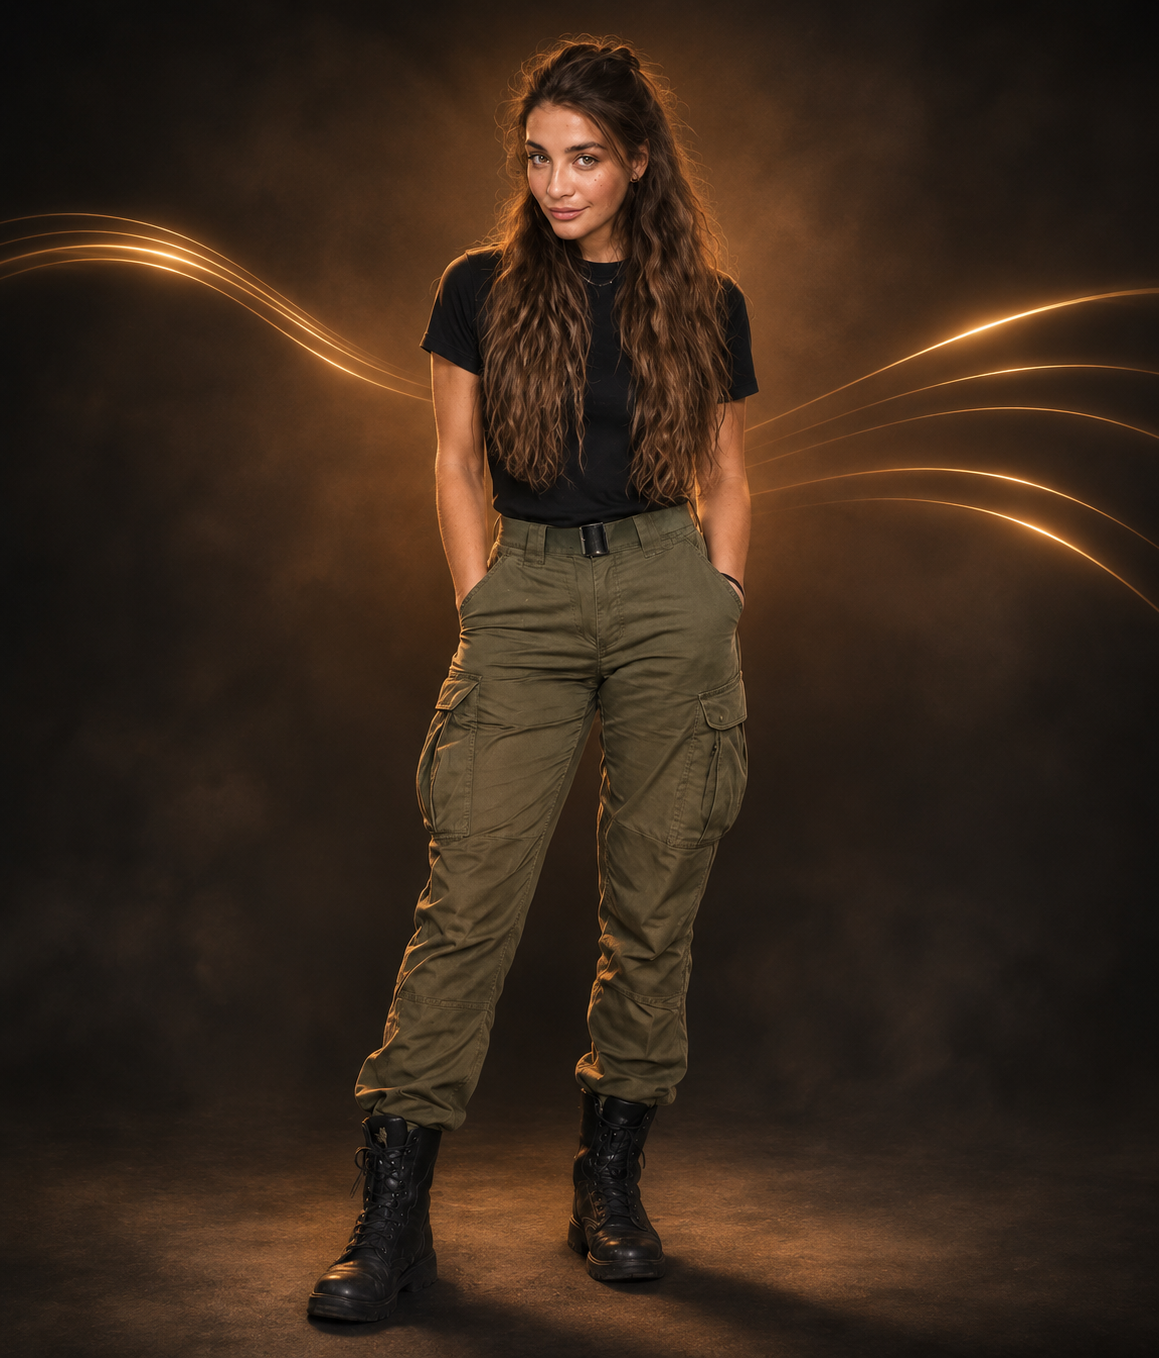
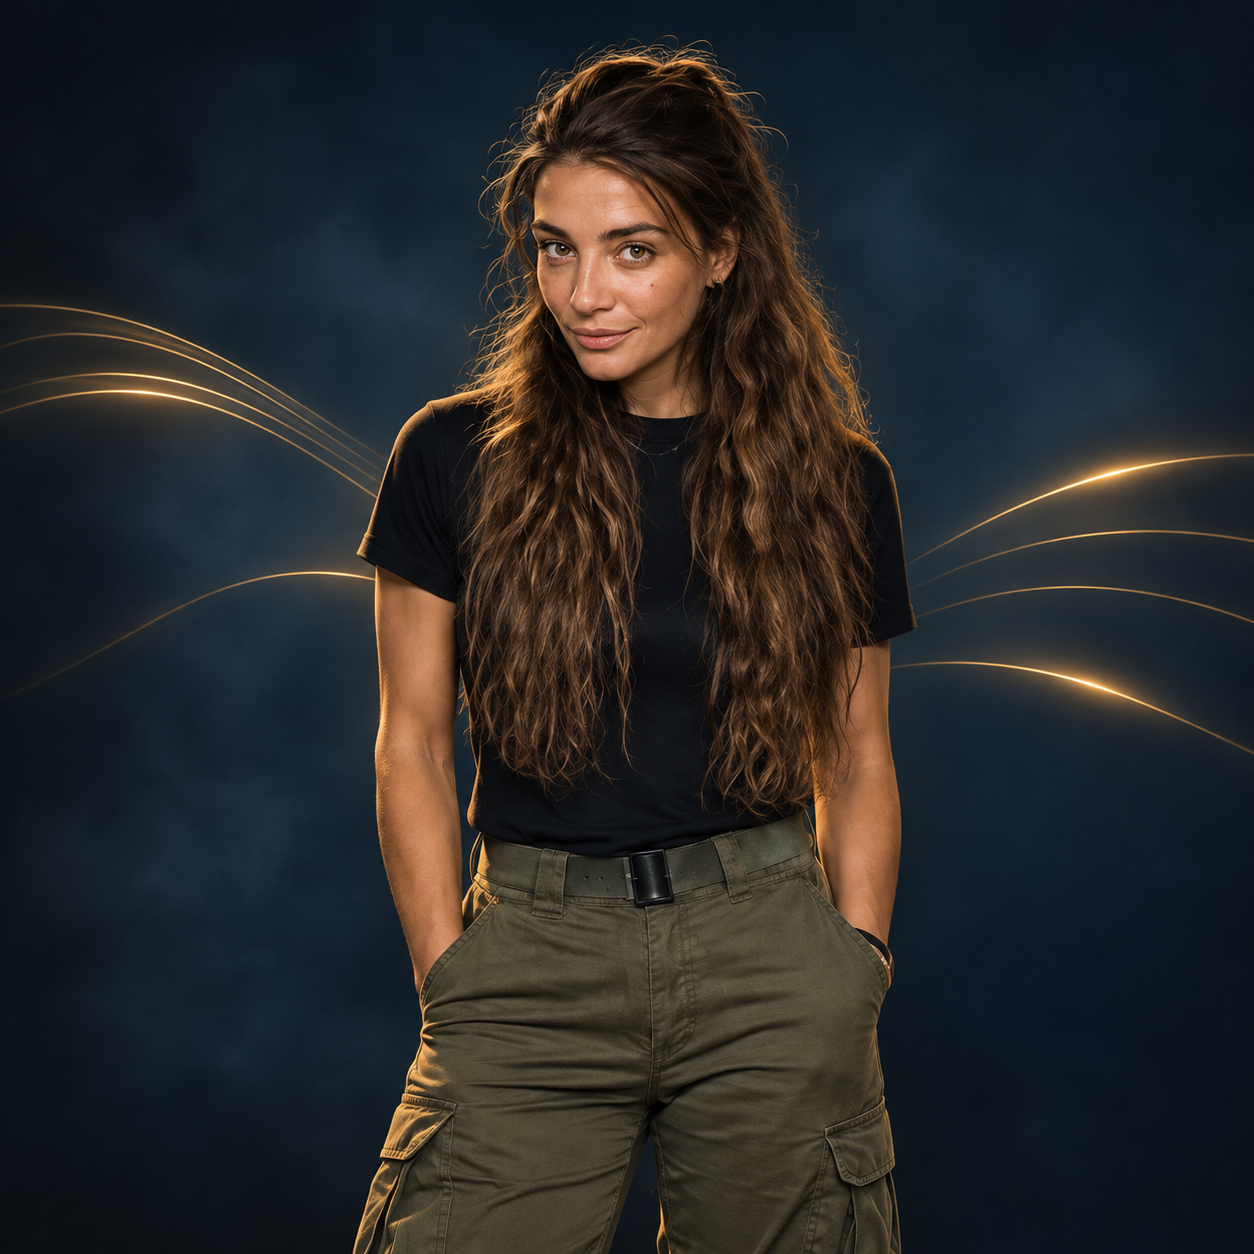
Add files via upload

diff --git a/css/style.css b/css/style.css
@@ -1575,3 +1575,11 @@ a.dabro-support-glow {
 .media-team-person strong{font-size:18px;color:#fff7e7}
 .media-team-person span{font-size:14px;color:#e3d9cb;line-height:1.5}
 @media(max-width:600px){.media-section{padding:18px 16px 48px}.media-team-card{gap:16px;padding:15px;align-items:flex-start}.media-team-photo{width:110px;min-width:110px}.media-team-info h3{font-size:20px;margin-bottom:12px}.media-team-person strong{font-size:15px}.media-team-person span{font-size:12px}.media-team-kicker{font-size:10px}}
+
+/* Media team: round portrait and broadcaster logo */
+.media-team-photo{width:190px;min-width:190px;aspect-ratio:1/1;border-radius:50%;border:2px solid rgba(231,190,108,.6);box-shadow:0 0 0 5px rgba(231,190,108,.07)}
+.media-team-photo img{object-fit:cover;object-position:center 24%}
+.media-team-brand{display:flex;align-items:center;gap:13px;margin-bottom:12px}
+.media-team-brand img{width:60px;height:60px;object-fit:contain;flex:none}
+.media-team-brand .media-team-kicker{margin:0}
+@media(max-width:600px){.media-team-card{flex-direction:column;align-items:center;text-align:center}.media-team-photo{width:156px;min-width:156px}.media-team-info{width:100%}.media-team-brand{justify-content:center}.media-team-brand img{width:46px;height:46px}.media-team-person{align-items:center}}

diff --git a/index.html b/index.html
@@ -143,7 +143,7 @@
       <div class="media-team-card">
         <div class="media-team-photo"><img src="images/guests/inga-pankratova.png" alt="Инга Панкратова — шеф-редактор телеканала «Долгопрудный»" loading="lazy"></div>
         <div class="media-team-info">
-          <p class="media-team-kicker">Телеканал «Долгопрудный»</p>
+          <div class="media-team-brand"><img src="images/partners/dolgoprudny-tv.png" alt="Логотип телеканала «Долгопрудный»" loading="lazy"><p class="media-team-kicker">Телеканал «Долгопрудный»</p></div>
           <h3>Съёмочная группа</h3>
           <div class="media-team-person"><strong>Инга Панкратова</strong><span>Шеф-редактор телеканала «Долгопрудный»</span></div>
           <div class="media-team-person"><strong>Сергей Валюков</strong><span>Оператор телеканала «Долгопрудный»</span></div>
